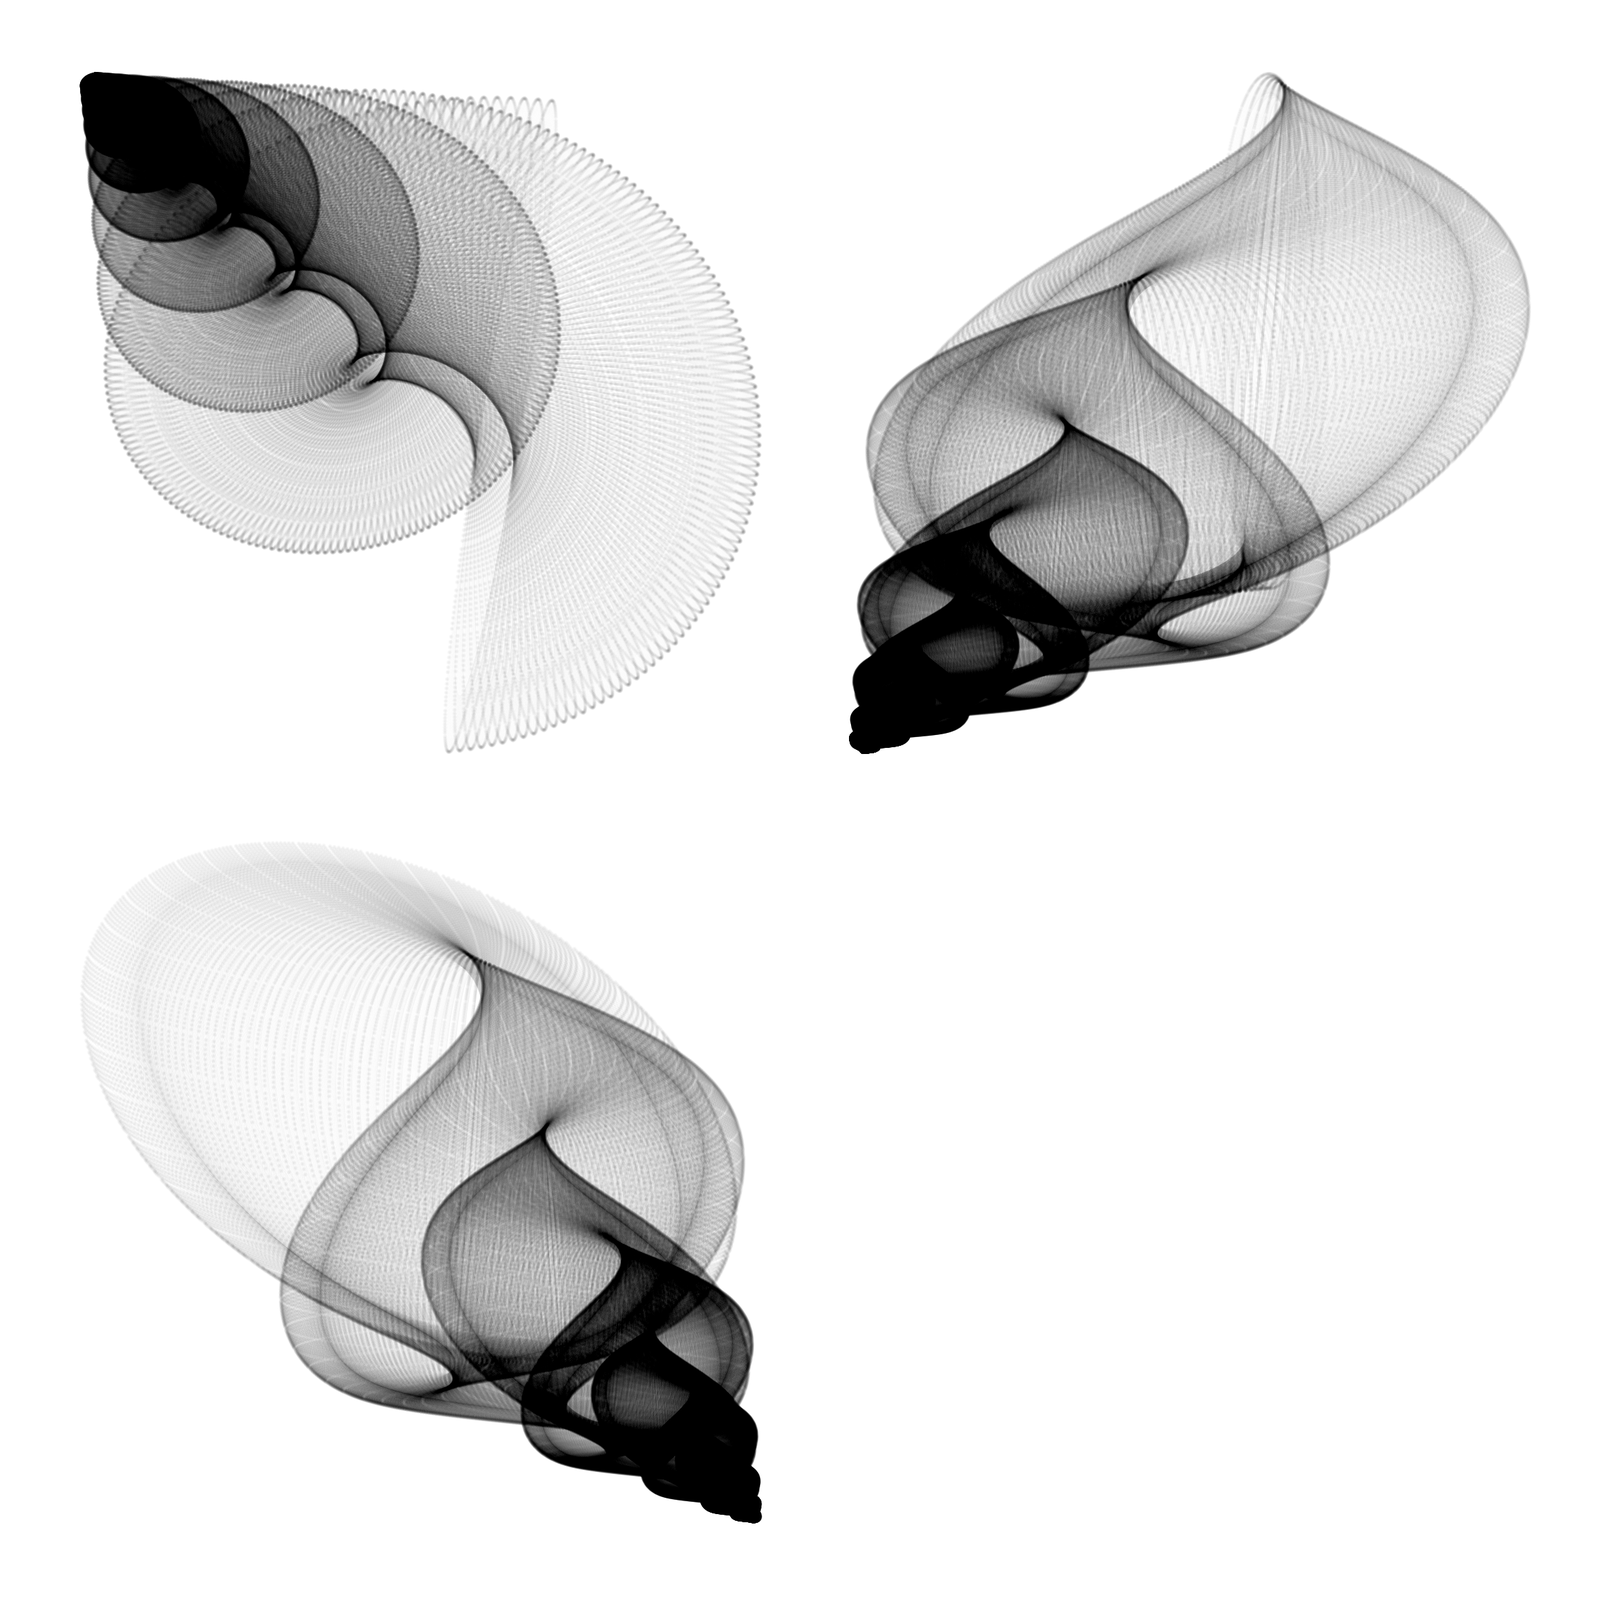
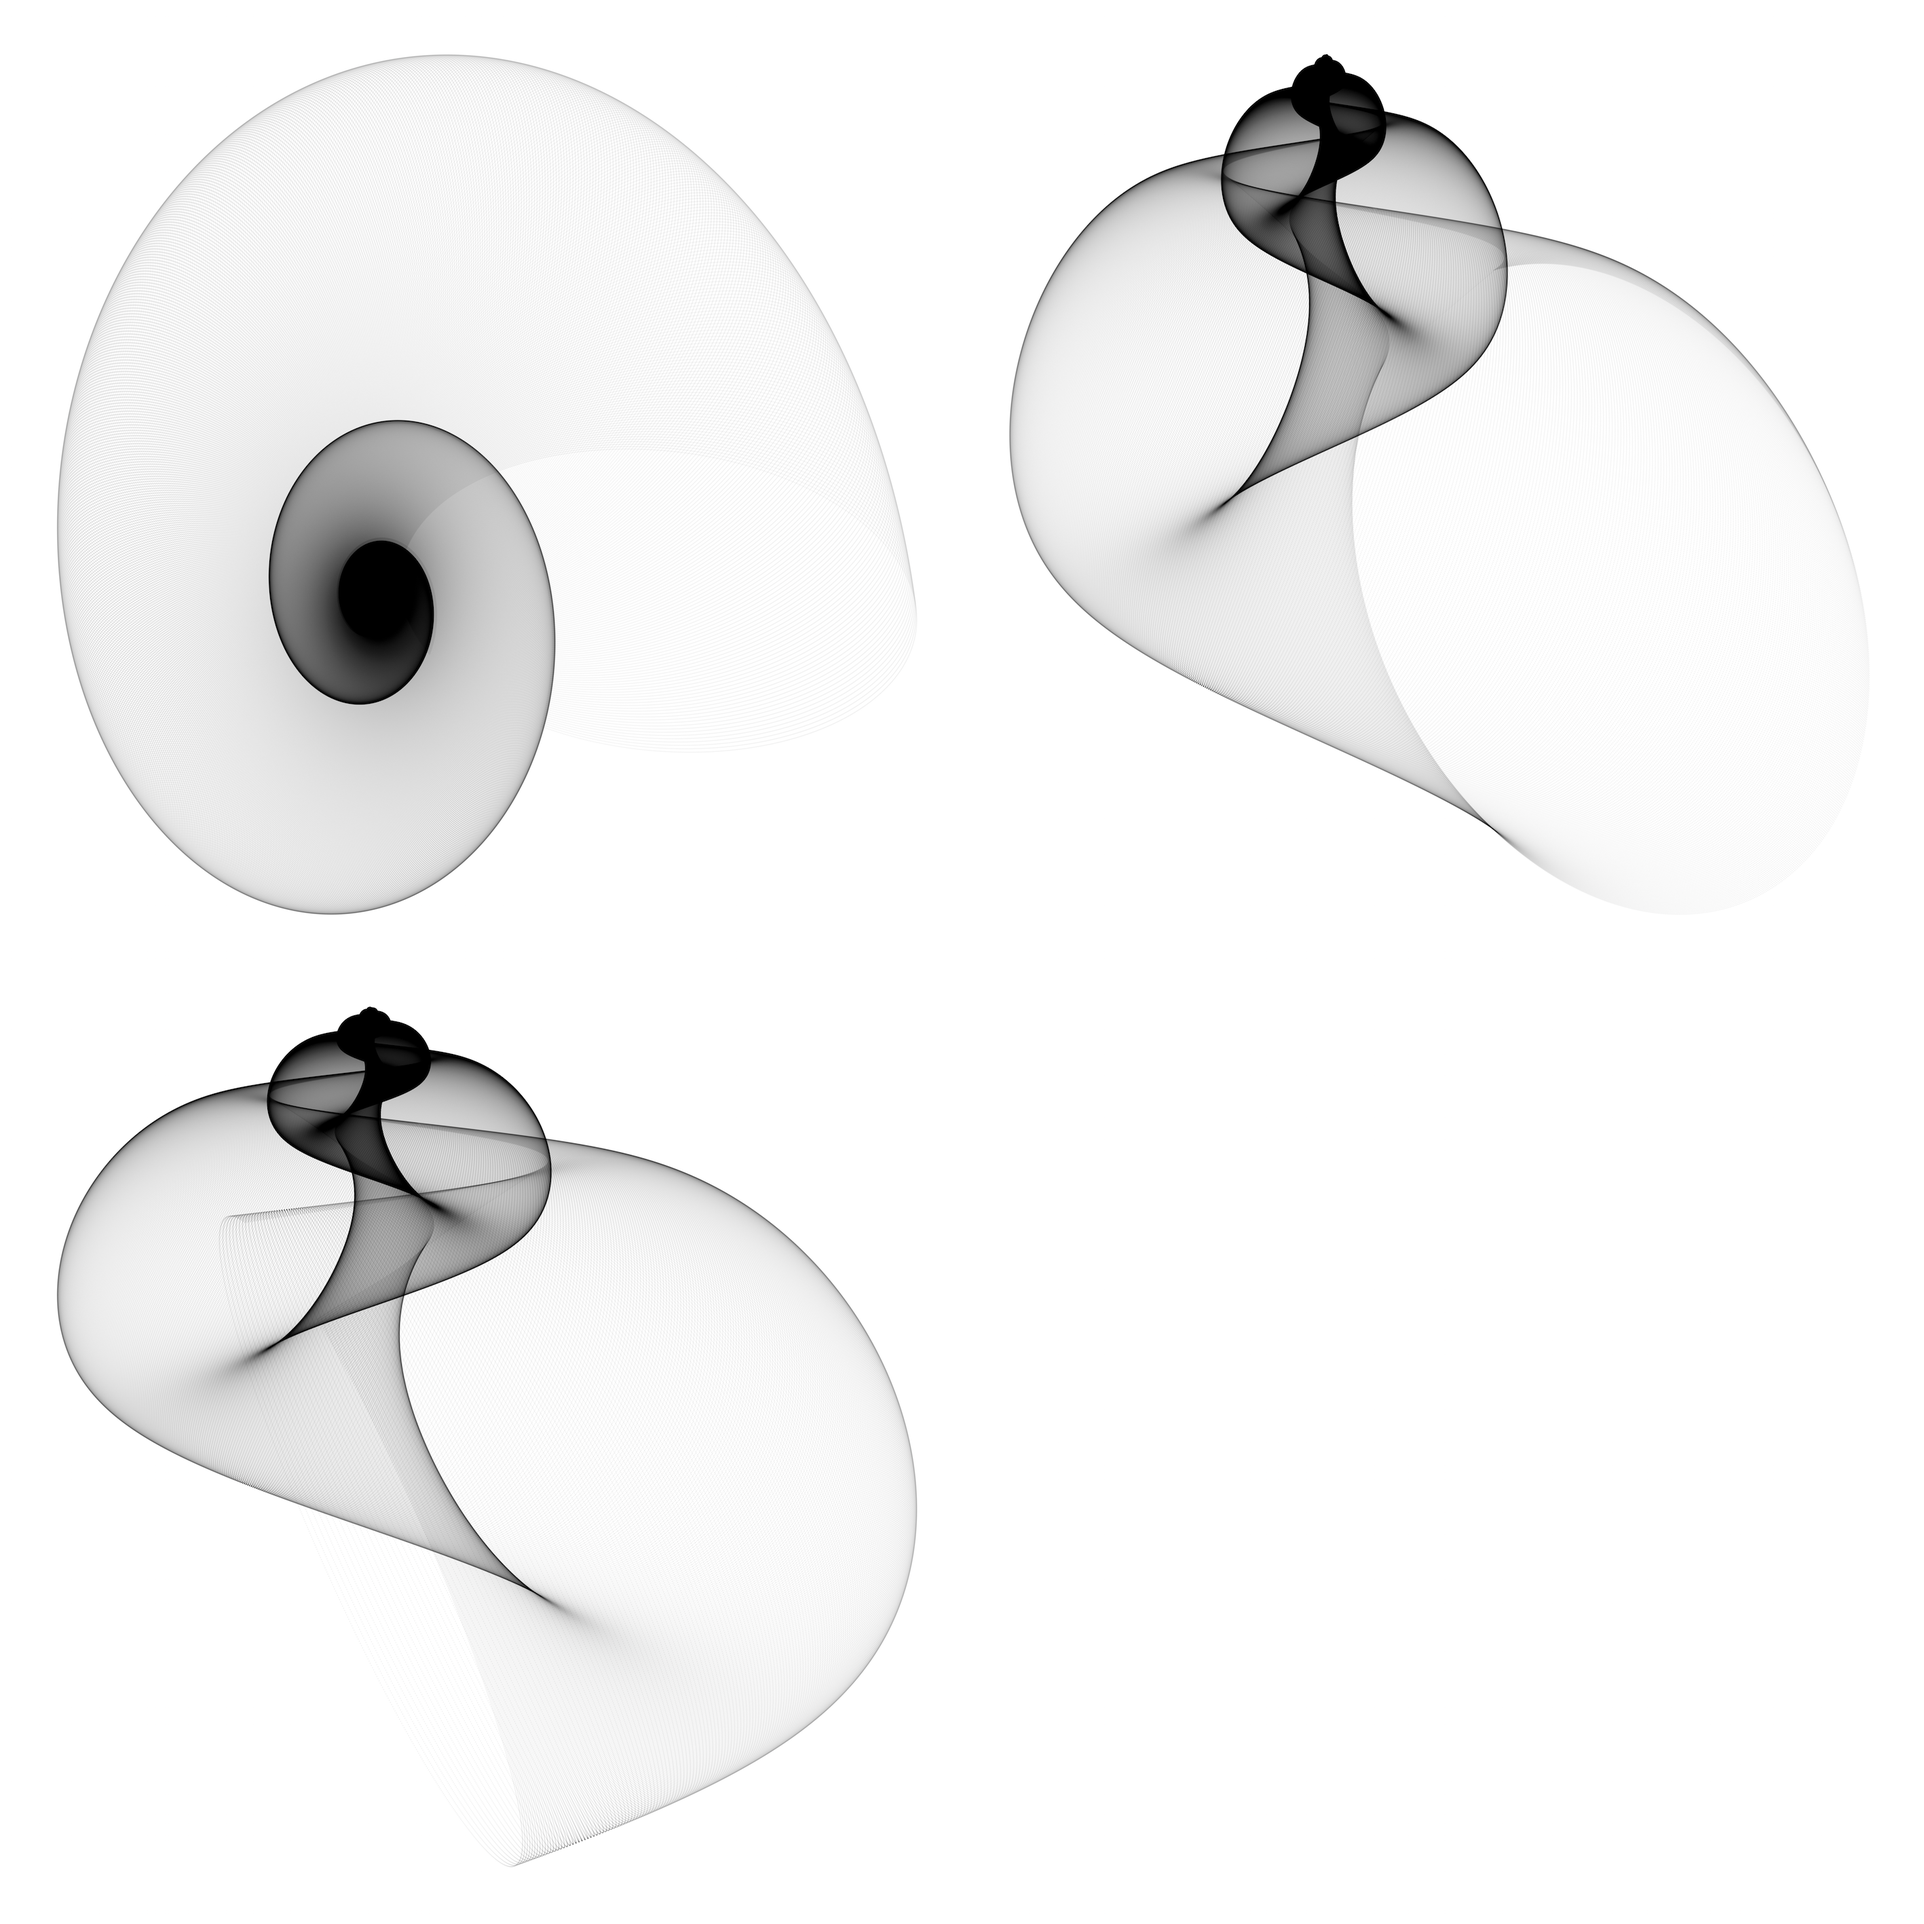
updated to reflect errata in Cortie's paper; fixed degrees versus radians issue; added n_s and n_t to control number of points generated

diff --git a/README.md b/README.md
@@ -45,7 +45,7 @@ p <- ggplot() +
   facet_wrap(~id, nrow = 2, scales = "free") +
   theme_blankcanvas(margin_cm = 0.5)
 
-ggsave("mollusc01.png", width = 20, height = 20, units = "cm")
+ggsave("mollusc01.png", width = 80, height = 80, units = "cm")
 ```
 
 ![plants](https://github.com/marcusvolz/mathart/blob/master/plots/mollusc01.png "Mollusc shells")
